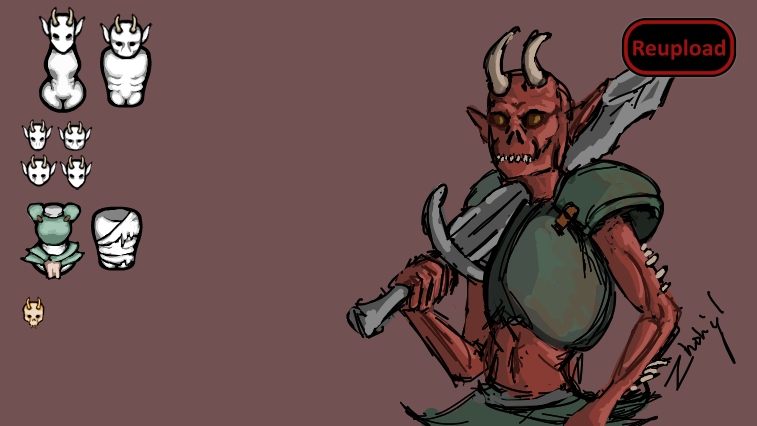
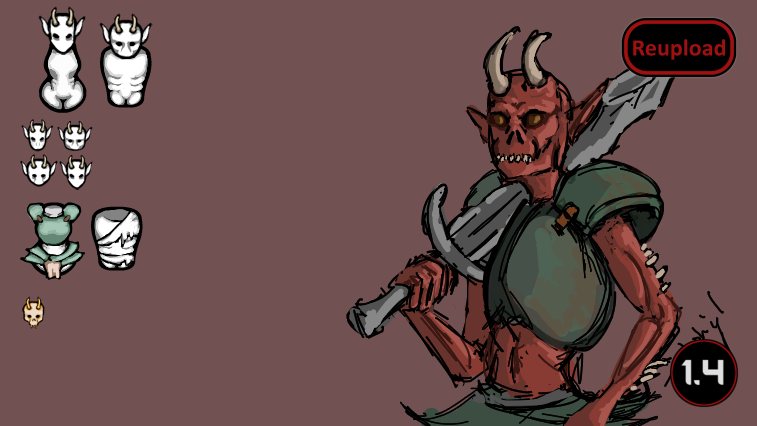
Last update, added end-of-life message

Changed region(s): [[0.8811, 0.7934, 0.9723, 0.9765]]

diff --git a/README.md b/README.md
@@ -4,7 +4,7 @@
 
 Update of Kompadts mod https://steamcommunity.com/sharedfiles/filedetails/?id=1754691148
 
-![Image](https://i.imgur.com/pufA0kM.png)
+![Image](https://i.imgur.com/KFjAmff.png)
 
 	
 ![Image](https://i.imgur.com/Z4GOv8H.png)
@@ -62,10 +62,13 @@ ko-fi.com/kompadt
 
 -  See if the the error persists if you just have this mod and its requirements active.
 -  If not, try adding your other mods until it happens again.
--  Post your error-log using https://steamcommunity.com/workshop/filedetails/?id=818773962]HugsLib and command Ctrl+F12
+-  Post your error-log using https://steamcommunity.com/workshop/filedetails/?id=818773962]HugsLib or the standalone https://steamcommunity.com/sharedfiles/filedetails/?id=2873415404]Uploader and command Ctrl+F12
 -  For best support, please use the Discord-channel for error-reporting.
 -  Do not report errors by making a discussion-thread, I get no notification of that.
 -  If you have the solution for a problem, please post it to the GitHub repository.
+-  Use https://github.com/RimSort/RimSort/releases/latest]RimSort to sort your mods
 
 
-https://steamcommunity.com/sharedfiles/filedetails/changelog/2971802777]Last updated 2023-06-11
+
+https://steamcommunity.com/sharedfiles/filedetails/changelog/2971802777]![Image](https://img.shields.io/github/v/release/emipa606/WarhammerZhthyhl?label=latest%20version&style=plastic&color=9f1111&labelColor=black)
+
